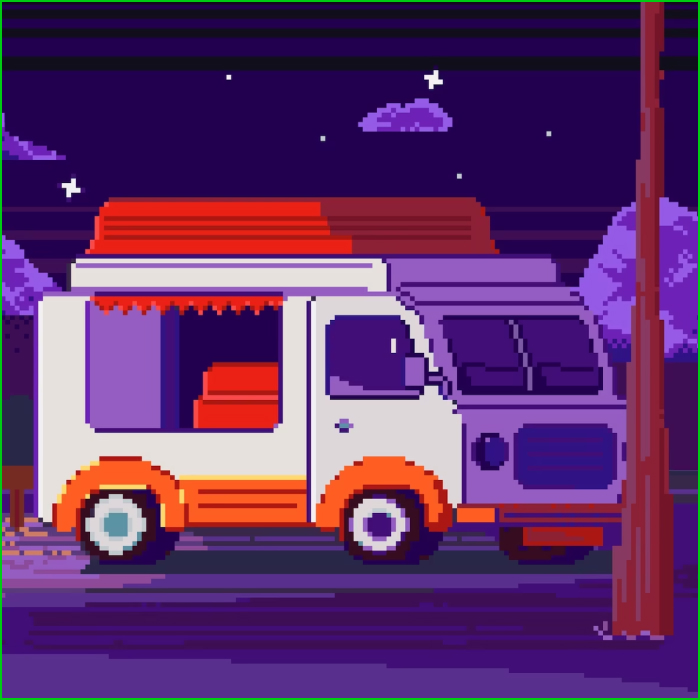
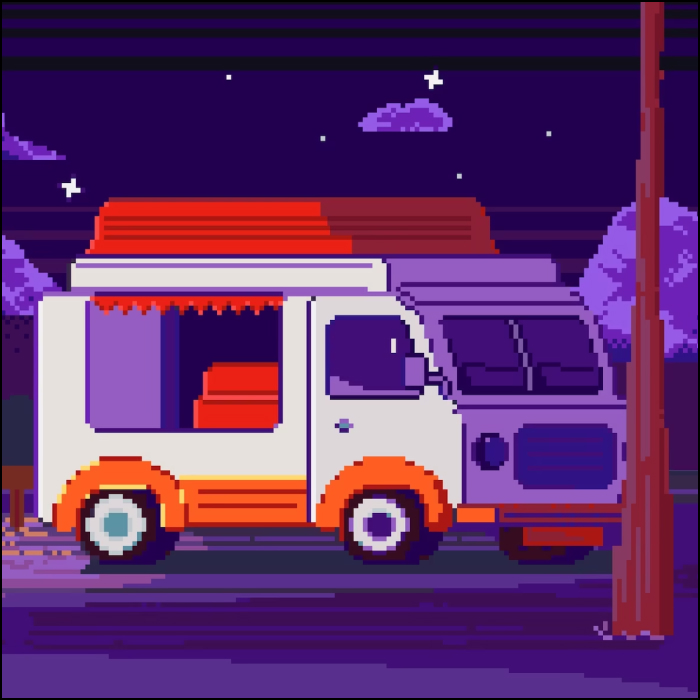
feat: header

Changed region(s): [[0.0, 0.0, 1.0, 1.0], [0.0, 0.0, 0.03, 0.03]]

diff --git a/styles/style.css b/styles/style.css
@@ -20,7 +20,135 @@
   color: var(--accent-color);
   min-inline-size: 320px;
   min-block-size: 100dvb;
-  font-family: 'Inter';
+  font-family: var(--page-main-font-family, "Inter", sans-serif);
+  font-variation-settings: "wght" var(--page-main-font-weight, 400);
+  background-size: cover;
+  background-attachment: fixed;
+
+}
+
+.page__header {
+  margin-block-end: 100px;
+}
+
+.modal {
+  border: 2px solid var(--text-color, #000000);
+  padding: 25px 30px;
+  color: var(--text-color, #000000);
+  font-family: var(--page-accent-font-family, "PressStart2P", fantasy);
+  line-height: 1.5;
+  text-transform: uppercase;
+  background: var(--page-background-color, #ffffff);
+  max-inline-size: 355px;
+}
+
+.modal[open] {
+  display: grid;
+  /* Safari fix */
+  grid-template-rows: repeat(2, min-content);
+  gap: 30px;
+}
+
+.modal::backdrop {
+  opacity: 0.75;
+  background: var(--color-black, #000000);
+}
+
+.modal__content {
+  display: flex;
+  align-items: center;
+  gap: 16px;
+}
+
+.modal__icon {
+  flex-shrink: 0;
+  inline-size: 39px;
+  block-size: 39px;
+}
+
+.modal__button {
+  inline-size: 100%;
+}
+
+.page-title {
+  font-size: clamp(3.0625rem, 2.7104rem + 1.5023vw, 4.0625rem);
+}
+
+.header {
+  display: grid;
+  justify-items: center;
+  justify-content: center;
+  font-family: var(--page-accent-font-family, "PressStart2P", fantasy);
+  line-height: normal;
+  text-transform: uppercase;
+}
+
+.header__title {
+  margin-block-start: clamp(7.5rem, 7.1479rem + 1.5023vw, 8.5rem);
+  margin-block-end: 20px;
+}
+
+.header__subtitle {
+  font-size: clamp(0.875rem, 0.6769rem + 0.8451vw, 1.4375rem);
+}
+
+.header__theme-menu {
+  margin-block: 25px;
+}
+
+.theme-menu__list {
+  display: grid;
+  gap: 8px;
+  padding-inline-start: 20px;
+}
+
+.theme-menu__button {
+  position: relative;
+  border: none;
+  font-size: 14px;
+  text-transform: uppercase;
+  background: transparent;
+  transition: opacity 0.3s ease;
+  cursor: pointer;
+  appearance: none;
+}
+
+.theme-menu__button:not(:disabled)::after {
+  content: "";
+  display: block;
+  background: currentColor;
+  transition: transform 0.3s ease;
+  transform: scaleX(0);
+  transform-origin: left;
+  inline-size: 100%;
+  block-size: 2px;
+}
+
+.theme-menu__button:hover {
+  opacity: 0.6;
+}
+
+.theme-menu__button:focus {
+  outline: none;
+  opacity: 0.6;
+}
+
+.theme-menu__button:focus-visible::after {
+  transform: scaleX(1);
+}
+
+.theme-menu__button:disabled {
+  opacity: 0.6;
+  cursor: default;
+  pointer-events: none;
+}
+
+.theme-menu__button:disabled::before {
+  content: "▶";
+  position: absolute;
+  animation: arrow 0.5s ease-in-out infinite alternate;
+  inset-inline-start: -20px;
+  inset-block-start: 0px;
 }
 
 .main {

diff --git a/styles/themes.css b/styles/themes.css
@@ -32,7 +32,7 @@
     --text-color: #00CC14;
     --page-background-image: repeating-linear-gradient(270deg, #000000 0 2px,#00000000 2px 4px),
       repeating-linear-gradient(180deg, #000000 0 2px, #00000000 2px 4px),
-      linear-gradient(to bottom, #007f0c, #004306);
+      linear-gradient(180deg, #007f0c, #004306);
     --accent-color: #00CC14;
   }
     

diff --git a/index.html b/index.html
@@ -57,7 +57,7 @@
               <span class="card__img-label">&lt;/HTML&gt;</span>
               <img
                 class="card__img"
-                src="./images/image-1.jpg"
+                src="./images/image-1.png"
                 alt="Микроавтобус едет по дороге"
               />
             </div>
